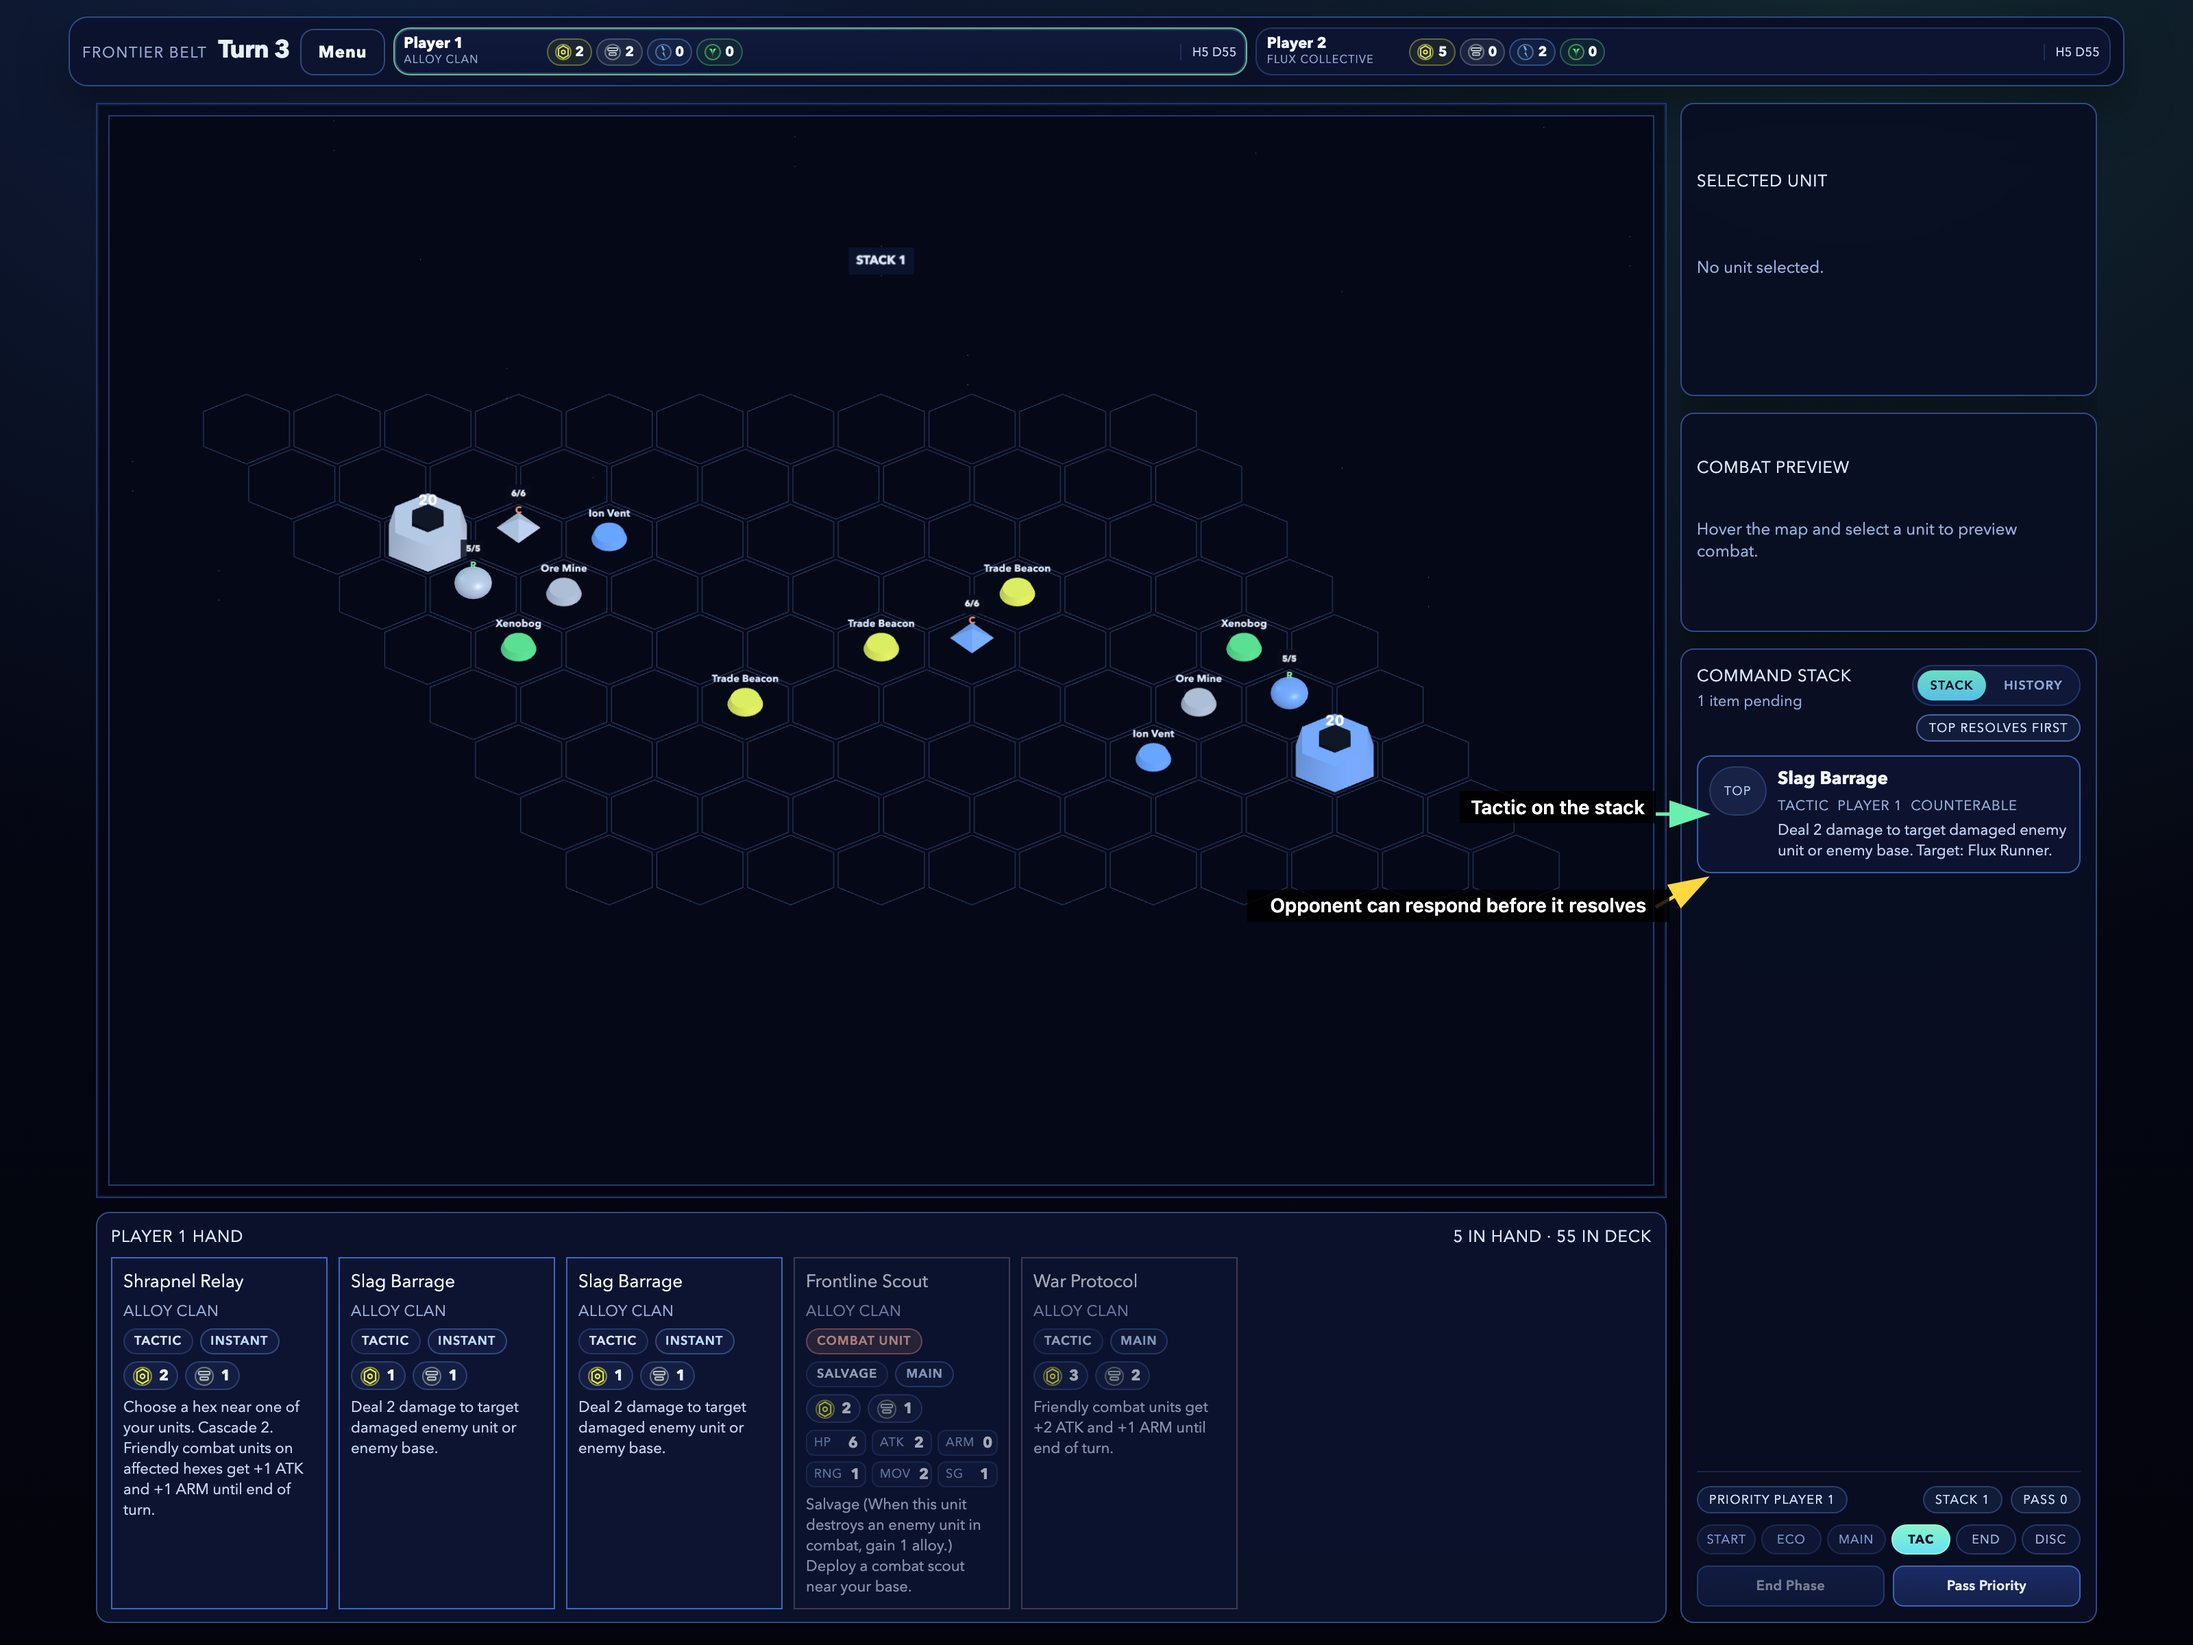
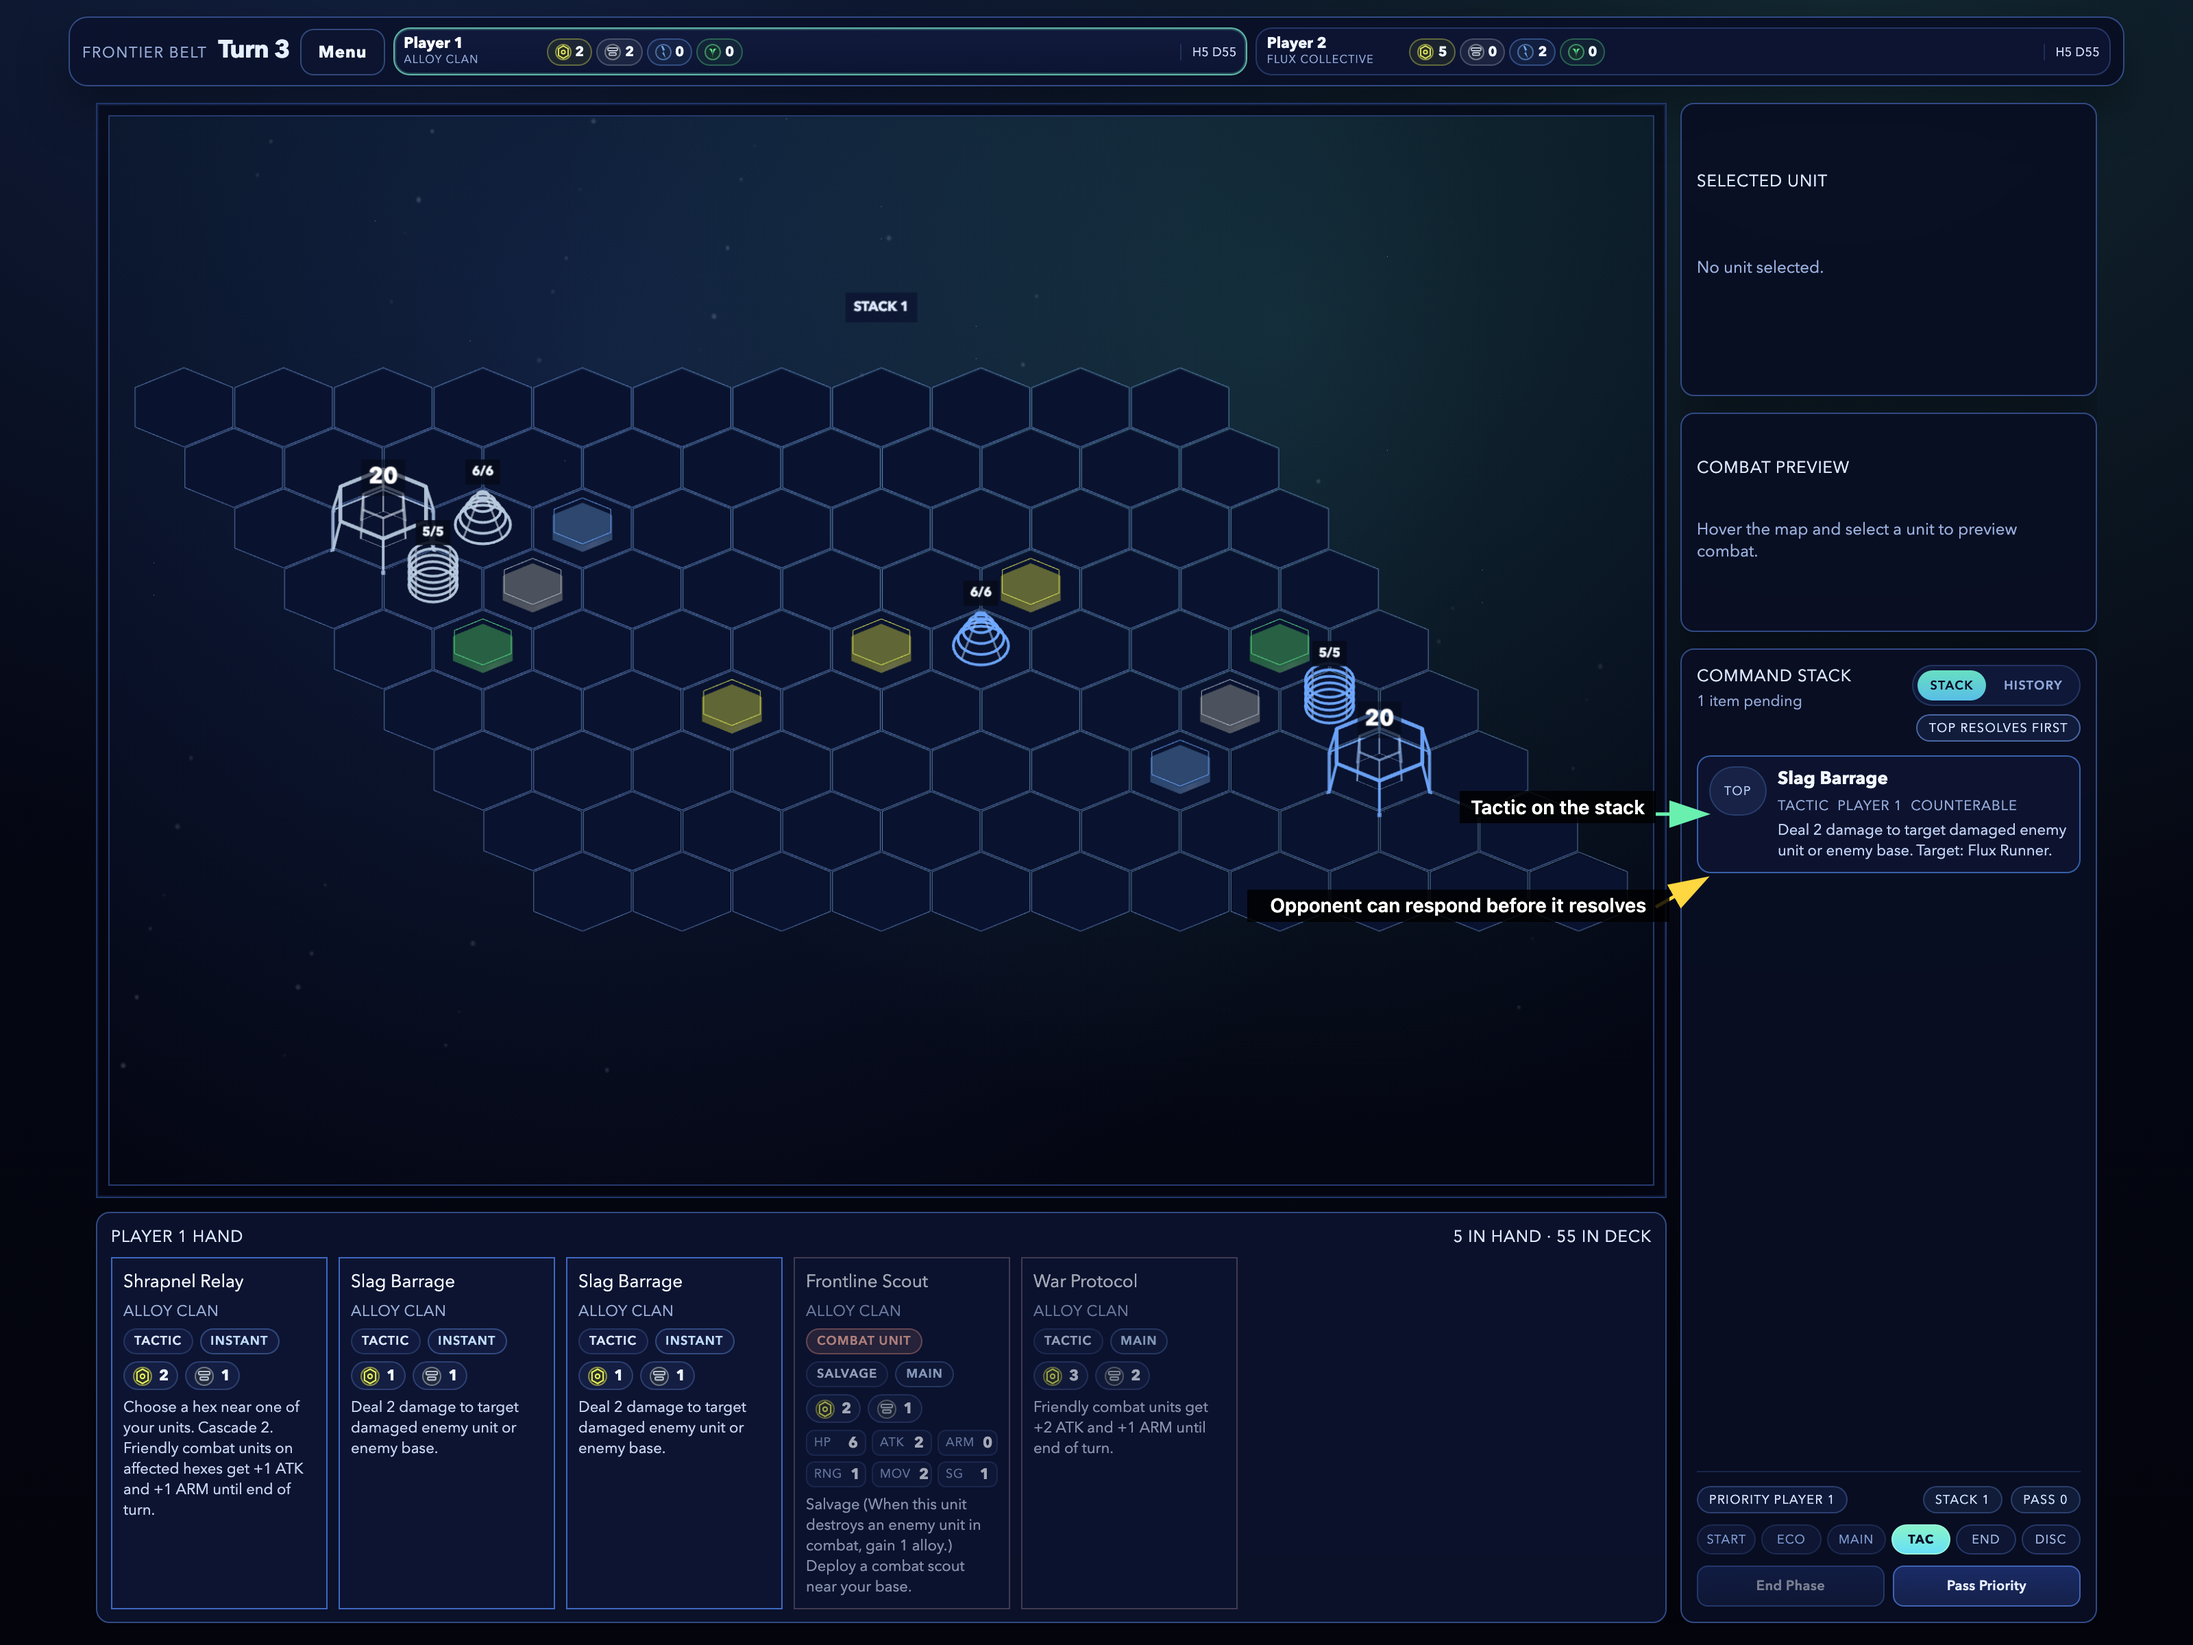
update intro screenshots

Changed region(s): [[0.0312, 0.0625, 0.7188, 0.5312]]

diff --git a/src/GameCanvas.tsx b/src/GameCanvas.tsx
@@ -8,6 +8,7 @@ function setRuntimeReady(ready: boolean): void {
     return;
   }
   window.__spaceTraderRuntimeReady = ready;
+  window.__spaceTraderRendererSettled = false;
   if (ready) {
     window.dispatchEvent(new CustomEvent("space-trader:runtime-ready"));
   }
@@ -92,6 +93,12 @@ export function GameCanvas() {
     let loopRunning = false;
     let lastTime = 0;
 
+    const hasActiveRenderWork = (): boolean => runtime.hasActiveAnimations() || (rendererRef.current?.hasActiveEffects?.() ?? false);
+
+    const updateRendererSettledFlag = (): void => {
+      window.__spaceTraderRendererSettled = !hasActiveRenderWork();
+    };
+
     const stopLoop = (): void => {
       if (frame !== 0) {
         window.cancelAnimationFrame(frame);
@@ -99,6 +106,7 @@ export function GameCanvas() {
       frame = 0;
       loopRunning = false;
       lastTime = 0;
+      updateRendererSettledFlag();
     };
 
     const loop = (time: number): void => {
@@ -111,8 +119,9 @@ export function GameCanvas() {
       lastTime = time;
 
       runtime.step(renderTarget, deltaSeconds);
+      updateRendererSettledFlag();
 
-      if (runtime.hasActiveAnimations()) {
+      if (hasActiveRenderWork()) {
         frame = window.requestAnimationFrame(loop);
         return;
       }
@@ -122,7 +131,7 @@ export function GameCanvas() {
     };
 
     const startLoop = (): void => {
-      if (loopRunning || document.hidden || !runtime.hasActiveAnimations()) {
+      if (loopRunning || document.hidden || !hasActiveRenderWork()) {
         return;
       }
 
@@ -138,6 +147,7 @@ export function GameCanvas() {
 
       if (!loopRunning) {
         runtime.step(renderTarget, 0);
+        updateRendererSettledFlag();
       }
       startLoop();
     };

diff --git a/scripts/capture-introduction-screenshots.ts b/scripts/capture-introduction-screenshots.ts
@@ -25,6 +25,7 @@ const DEV_SERVER_URL = "http://localhost:5173";
 const OUTPUT_DIR = join(__dirname, "..", "docs", "introduction");
 const VIEWPORT = { width: 1600, height: 1200 };
 const RENDER_SETTLE_MS = 600;
+const CAMERA_SETTLE_TIMEOUT_MS = 5_000;
 
 // ---------------------------------------------------------------------------
 // Annotation types
@@ -256,7 +257,7 @@ async function resetGame(page: Page): Promise<void> {
     runtime.notifyListeners();
   });
 
-  await page.waitForTimeout(RENDER_SETTLE_MS);
+  await waitForRendererSettled(page);
 }
 
 async function settleRender(page: Page): Promise<void> {
@@ -265,6 +266,7 @@ async function settleRender(page: Page): Promise<void> {
     runtime.animations = [];
     runtime.notifyListeners();
   });
+  await waitForRendererSettled(page);
   await page.waitForTimeout(RENDER_SETTLE_MS);
 }
 
@@ -279,6 +281,13 @@ async function waitForGameReady(page: Page): Promise<void> {
   await page.waitForFunction(
     () => (window as any).__gameRuntime != null && (window as any).__spaceTraderRuntimeReady === true,
     { timeout: 10_000 }
+  );
+}
+
+async function waitForRendererSettled(page: Page): Promise<void> {
+  await page.waitForFunction(
+    () => (window as any).__spaceTraderRuntimeReady === true && (window as any).__spaceTraderRendererSettled === true,
+    { timeout: CAMERA_SETTLE_TIMEOUT_MS }
   );
 }
 
@@ -1047,7 +1056,7 @@ async function main(): Promise<void> {
 
   await waitForGameReady(page);
 
-  await page.waitForTimeout(1_000);
+  await waitForRendererSettled(page);
 
   console.log(`Capturing ${steps.length} tutorial screenshots...\n`);
 

diff --git a/src/game/render3d/renderer.ts b/src/game/render3d/renderer.ts
@@ -481,6 +481,13 @@ export class ThreeGameRenderer implements GameRenderer {
     return coord;
   }
 
+  hasActiveEffects(): boolean {
+    return (
+      this.cameraIntroElapsed < CAMERA_INTRO_DURATION_SECONDS ||
+      this.victoryCameraElapsed < VICTORY_CAMERA_DURATION_SECONDS
+    );
+  }
+
   dispose(): void {
     clearGroup(this.boardGroup);
     clearGroup(this.overlayGroup);

diff --git a/src/game/types.ts b/src/game/types.ts
@@ -164,6 +164,7 @@ export type GameFrame = RuntimeFrame & {
 export type GameRenderer = {
   setViewport(width: number, height: number, scale: number): void;
   render(state: GameState, frame: RuntimeFrame): void;
+  hasActiveEffects?(): boolean;
   pickHex?(clientX: number, clientY: number): HexCoord | null;
   dispose(): void;
 };

diff --git a/src/vite-env.d.ts b/src/vite-env.d.ts
@@ -18,6 +18,7 @@ declare global {
     };
     __gameRuntime?: GameRuntime;
     __spaceTraderRuntimeReady?: boolean;
+    __spaceTraderRendererSettled?: boolean;
   }
 }
 
